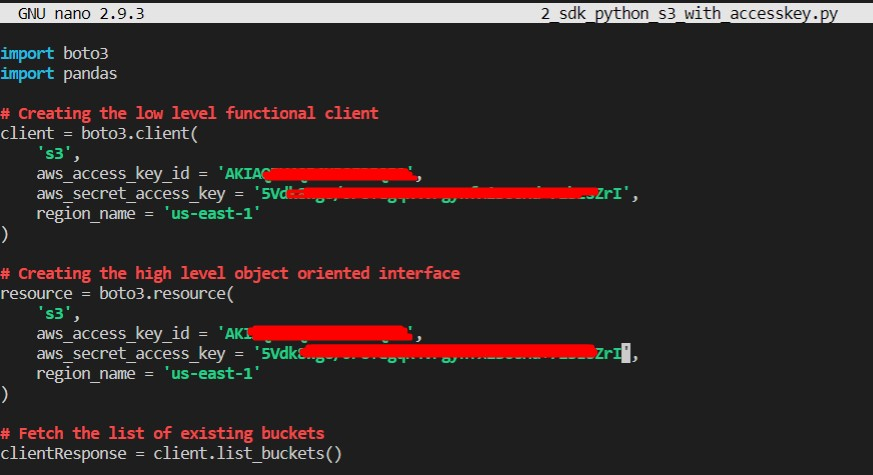
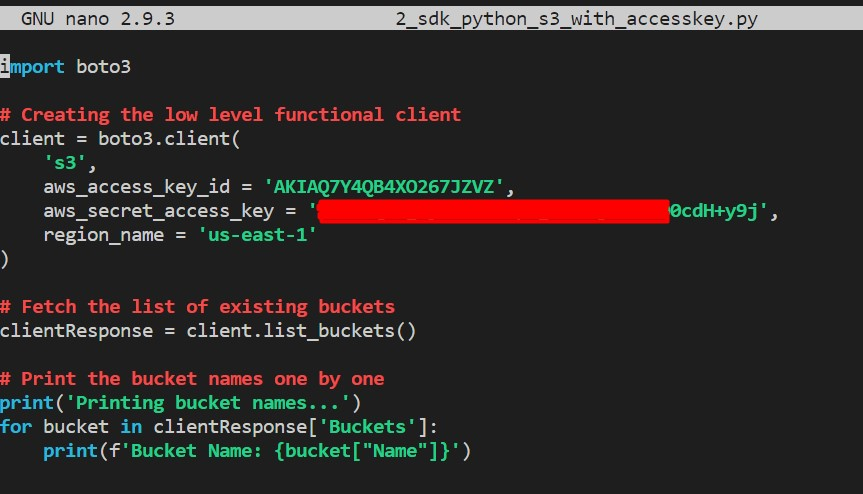
Update Lab-20

diff --git a/Lab-20/README-Lab20.md b/Lab-20/README-Lab20.md
@@ -47,13 +47,11 @@ aws cloudformation create-stack --stack-name lab20-vpc-ec2-iam --template-body f
 
 <br>
 
-5. Accedemos al servicio IAM y generamos un IAM User Programmatic a través de la siguiente configuración. En el paso final damos clic en "Create User". Luego, copiar los valores "Access key ID" y "Secret access key."
+5. Accedemos al servicio IAM y generamos un "IAM User" asociado a la política "AmazonS3FullAccess". Luego, accedemos al detalle del "IAM User", y desde la pestaña "Security credentials" generamos un nuevo "Access Key". Copiar los valores "Access key" y "Secret access key" al finalizar el proceso de creación.
 
     * Username: User01
-    * Select AWS credential type: Access key - Programmatic access
     * Set Permissions: Attach existing policies directly
     * Search: AmazonS3FullAccess
-
 
 <br>
 
@@ -81,10 +79,28 @@ aws cloudformation create-stack --stack-name lab20-vpc-ec2-iam --template-body f
 
 <br>
 
-6. Desde Cloud9, generamos un bucket S3 usando AWSCLI. Reemplazamos las variables $nombre y $apellido con nuestros datos personales.
+<img src="images/Lab20_14.jpg">
+
+<br>
+
+<img src="images/Lab20_15.jpg">
+
+<br>
+
+<img src="images/Lab20_16.jpg">
+
+<br>
+
+<img src="images/Lab20_17.jpg">
+
+<br>
+
+6. Desde Cloud9, generamos un bucket S3 usando AWSCLI.
 
 ```bash
-aws s3api create-bucket --bucket $nombre-$apellido-aws-solutionsarchitectassociate --region us-east-1
+aws_account=$(aws sts get-caller-identity --query "Account" --output text)
+echo $aws_account
+aws s3api create-bucket --bucket lab20-aws-solutionsarchitectassociate-$aws_account --region us-east-1
 ```
 <br>
 
@@ -92,14 +108,14 @@ aws s3api create-bucket --bucket $nombre-$apellido-aws-solutionsarchitectassocia
 
 <br>
 
-7. Accedemos por SSH a la instancia EC2 y editamos las variables "$aws_access_key_id" y "$aws_Secret_access_key" del archivo 2_sdk_python_s3_with_accesskey.py ubicado en /home/ubuntu. Guardamos los cambios y ejecutamos el archivo en mención usando python3. Validamos que el script lista todos los buckets S3 de nuestra cuenta AWS.
+7. Accedemos por SSH a la instancia EC2 "IAM Challenge" y editamos las variables "$aws_access_key_id" y "$aws_Secret_access_key" del archivo 2_sdk_python_s3_with_accesskey.py ubicado en /home/ubuntu. Guardamos los cambios y ejecutamos el archivo en mención usando python3. Validamos que el script liste todos los buckets S3 de nuestra cuenta AWS.
 
 ```bash
 #Conexión a la instancia EC2
 ssh -i keypair_name.pem ubuntu@public_ip
 
 #Ejecucción de archivo python
-python3 2_sdk_python_s3_with_accesskey.py
+python3 /home/ubuntu/2_sdk_python_s3_with_accesskey.py
 ```
 <br>
 
@@ -107,11 +123,14 @@ python3 2_sdk_python_s3_with_accesskey.py
 
 <br>
 
-8. Usando python3 ejecutaremos el archivo "3_sdk_python_s3_without_accesskey.py". Tendremos error al ejecutar el archivo.
+8. Usando python3 ejecutaremos el archivo "3_sdk_python_s3_without_accesskey.py". Tendremos el siguiente error al ejecutar el archivo. Analizar contenido y diferencias de los archivos "2_sdk_python_s3_with_accesskey.py" y "3_sdk_python_s3_without_accesskey.py". 
 
 ```bash
 #Ejecucción de archivo python
 python3 2_sdk_python_s3_with_accesskey.py
+
+#Error
+botocore.exceptions.NoCredentialsError: Unable to locate credentials
 ```
 
 <br>
@@ -157,15 +176,18 @@ python3 2_sdk_python_s3_with_accesskey.py
 
 <br>
 
-11. Usando python3 ejecutaremos el archivo "3_sdk_python_s3_without_accesskey.py" nuevamente. En esta ocasión validamos que nos devuelve como resultado la lista de buckets S3.
+11. Desde nuestra instancia EC2 ejecutaremos el archivo "3_sdk_python_s3_without_accesskey.py" nuevamente. En esta ocasión validamos que nos devuelve como resultado la lista de buckets S3.
 
 ```bash
 #Ejecucción de archivo python
-python3 2_sdk_python_s3_with_accesskey.py
+python3 3_sdk_python_s3_without_accesskey.py
 ```
 
-12. Si un atacante accede a nuestra instancia podrá obtener las credenciales almacenadas en los archivos python. De la misma manera como si subimos estos archivos python a algún repositorio como GitHub, Bitbucket. Los atacantes podrán usar estas credenciales de forma local si las obtienen. Debemos proteger siempre los "Access key ID" y "Secret access key" generados. Se deberá eligar siempre la configuración de roles en nuestras instancias EC2.
+<br>
 
+12. Si un atacante accede a nuestra instancia podrá obtener las credenciales almacenadas en el archivo python "2_sdk_python_s3_with_accesskey". Podrán acceder a ellos también si estos archivos son cargados en repositorios públicos. Una vez obtenida las credenciales "Access key" y "Secret access key", los atacantes podrán usar estas para acceder a nuestros recursos en AWS (estos accesos estarán limitados al tipo de política asociado al usuario IAM User Programmatic). Debemos proteger siempre los "Access key ID" y "Secret access key" generados. Es buena practica, usar "IAM Roles" asociadas a nuestras instancias EC2.
+
+<br>
 
 ---
 
@@ -175,4 +197,6 @@ python3 2_sdk_python_s3_with_accesskey.py
 
 ```bash
 aws cloudformation delete-stack --stack-name lab20-vpc-ec2-iam --region us-east-1
+#Eliminar IAM User "User01"
+#Eliminar Instancia Cloud9
 ```
